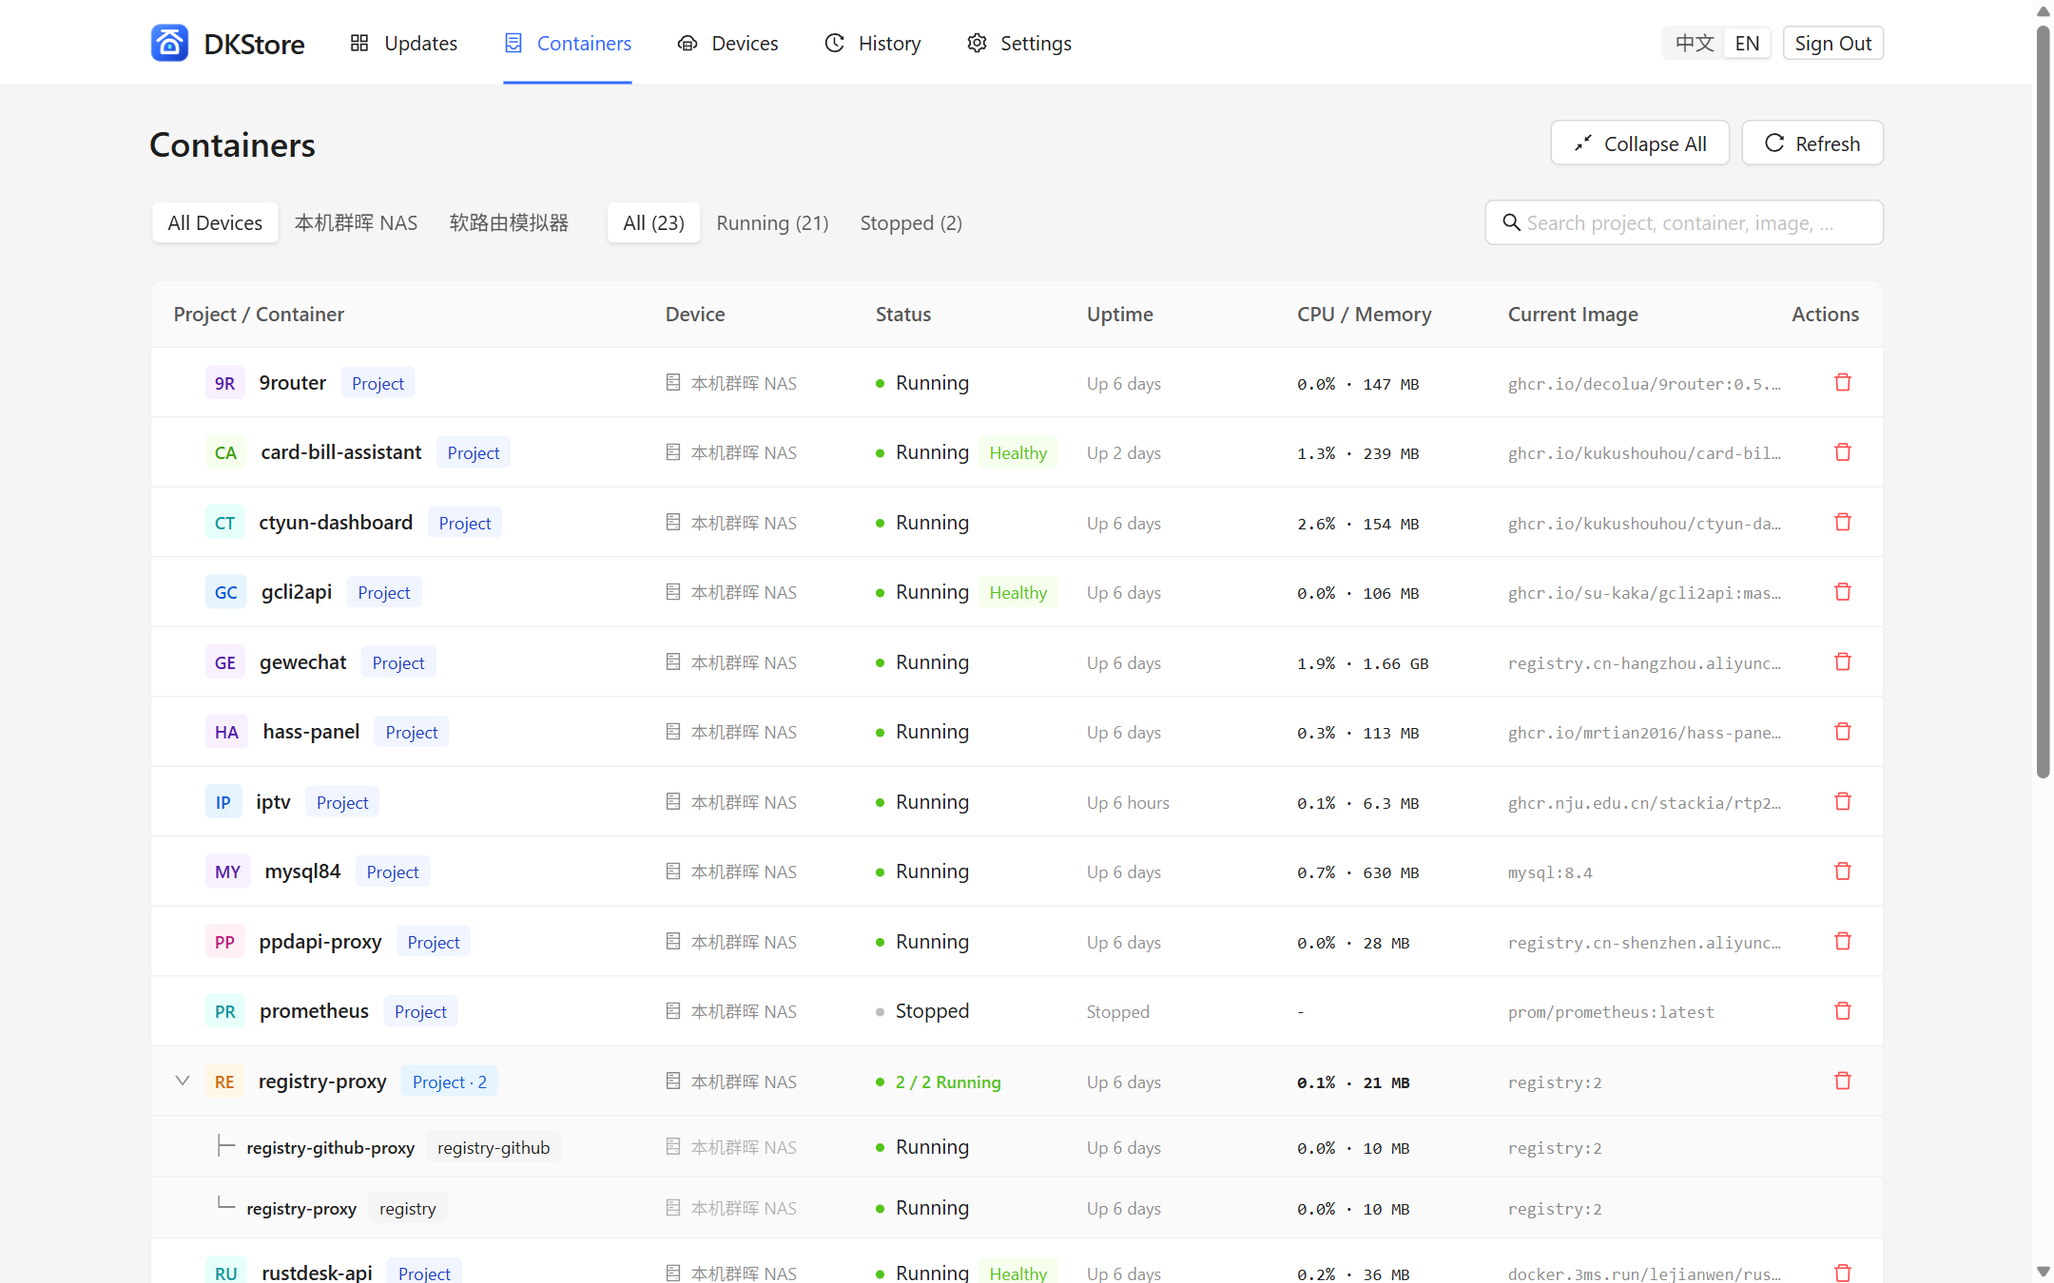
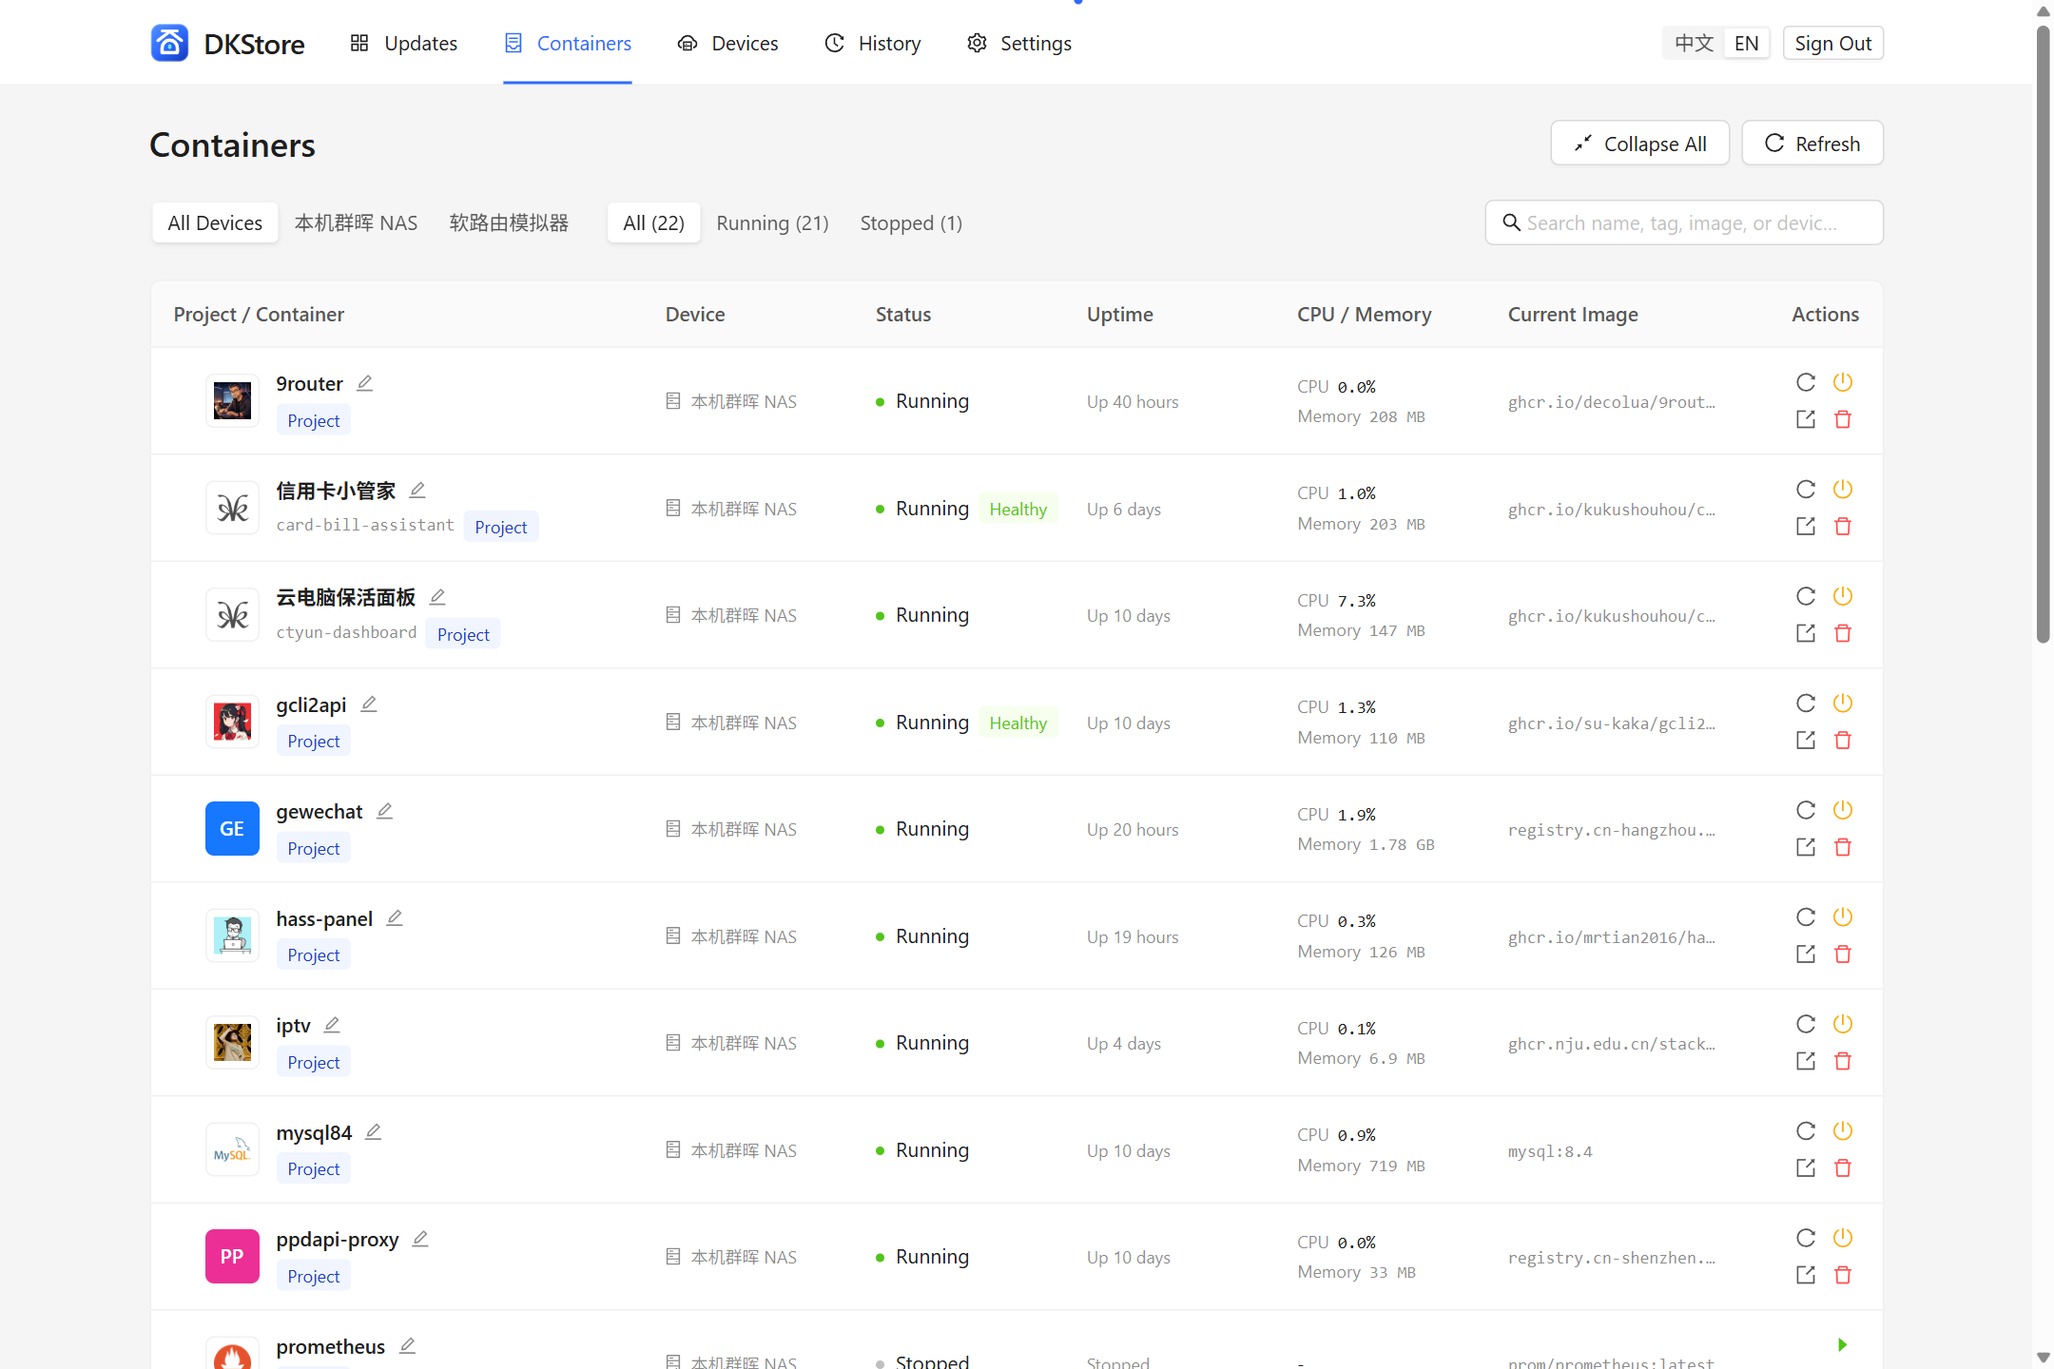
docs: refresh README highlights and bilingual screenshots

diff --git a/README_zh-CN.md b/README_zh-CN.md
@@ -1,4 +1,4 @@
-# DKStore — 家庭 Docker 应用更新中心
+# DKStore — 直观省心的 Docker 应用更新工具
 
 <p>
   <a href="./README.md">English</a> · <strong>简体中文</strong> · <a href="./CHANGELOG.md">更新日志</a> · <a href="https://github.com/kukushouhou/DKStore/releases">下载安装包</a>
@@ -12,50 +12,38 @@
   <img src="https://img.shields.io/badge/Docker-amd64%20%7C%20arm64%20%7C%20armv7-2496ed?style=flat-square" alt="Docker Multi-Arch" />
 </p>
 
-**DKStore** 是专为家庭 NAS、软路由与个人服务器打造的跨平台 Docker 应用更新中心。只需在家中任意一台设备安装一次，即可像手机应用商店一样统一检查、一键安全升级、在线调整配置并在必要时一键回退家里所有设备上的 Docker 应用，同时与群晖 Container Manager、飞牛应用中心等系统原生管理器无感并存。
+**DKStore** 是一款可与群晖、飞牛等系统自带 Docker 管理器**无缝共存**的应用更新工具，提供群晖、飞牛、iStoreOS / OpenWrt 等各平台原生安装包。无需迁移原有容器即可看清 `latest` 真实版本、一键升级与回退，换新版配置时还能**一键恢复自己原有的目录、端口和密码**。
 
 ---
 
 ## 功能亮点
 
-- **应用商店式更新体验，告别盲目升级**
-  - 自动反查 `:latest` 等浮动标签背后的真实版本号（如 `latest (v1.4.1)`），直观对比当前运行版本与最新可用版本。
-  - 智能将待更新应用划分为 **「可更新」** 与 **「需谨慎更新」**（自动识别跨大版本升级、MySQL/PostgreSQL/Redis/MQ 等数据库与中间件组件），并附带官方更新说明与仓库直达链接。
-  - 灵活的提醒范围控制：支持 **锁定大版本前缀**（例如锁住 `0.5.x` 或 `v1.x` 不跨大版本提醒）、**仅跳过当前版本** 或 **不再提醒**。
-- **一处安装，统管全家设备（被管设备免装客户端）**
-  - 支持接入本机 Docker、**群晖 DSM WebAPI 免 SSH 连接**（支持两步验证 OTP 与设备信任令牌持久化）以及 **SSH 远程连接**（支持密码、PEM 私钥、一键生成密钥对及 `sudo` 提权），统一管理多台群晖 NAS、飞牛 fnOS、OpenWrt / iStoreOS 软路由与 Linux 主机。
-  - 自动识别群晖 Container Manager 原生项目、标准 Docker Compose 项目与独立容器；对系统套件托管容器自动设为只读保护，防止误操作破坏系统套件。
-- **单容器安全升级、在线改配置与流式日志**
-  - **不连带重启数据库**：升级多容器项目时仅替换目标容器镜像并独立重建，绝不误重启同项目下的数据库或其他关联服务，同时完整保留原 `docker-compose.yml` 注释与缩进，并自动保留原有的镜像加速源前缀。
-  - **网页端直接按新版配置更新**：当官方新版要求增改环境变量、端口或 YAML 配置时，可直接在更新弹窗内修改当前配置（内置文件夹路径与密码防误覆盖检测、一键恢复原配置，升级失败自动回滚原配置与运行状态）。
-  - **实时进度与终端日志**：实时展示镜像分层下载进度条与只读终端执行日志，多任务队列一目了然。
-- **更新历史记录与安全回退**
-  - 完整留存每次升级与回退前后的版本号、镜像摘要（Digest）及终端日志；回退前自动核验目标版本镜像可用性，确认安全后一键回退到升级前版本。
-- **树状容器监控、残留清理与定时推送**
-  - 树状分组展示各设备的项目与容器运行状态、运行时长、实时 CPU / 内存占用，支持一键移除容器或整个项目（可选一并清理镜像与项目目录）。
-  - 内置定时自动检查、Docker Hub / 私有仓库凭据原位配置，支持通过 **Telegram、Bark、企业微信、ntfy、Webhook** 推送新版本通知，全界面支持**中英双语**实时切换。
+- **各平台原生安装，与 NAS 自带 Docker 管理器无缝共存**  
+  提供群晖 `.spk`、飞牛 `.fpk`、iStoreOS `.run`、OpenWrt `.ipk`/`.apk` 原生安装包（及 Docker / Linux / Windows 版），装好后直接从系统桌面免二次密码打开。**无需迁移或重建现有项目**：群晖 Container Manager、飞牛 Docker 等自带管理器创建的容器可直接原地升级，升完在原管理器中依然正常受管（单更某容器时不连带重启同项目数据库，系统套件容器自动只读保护），同时支持**群晖免开 SSH 直连**与多设备 SSH 集中管理。
+  <p><a href="./assets/screenshots/hosts-zh.png"><img src="./assets/screenshots/hosts-zh.png" width="560" alt="原生安装与多设备管理" /></a></p>
 
----
+- **粘贴新版配置，一键「恢复个性化配置」**  
+  整段粘贴官方新版 `compose.yaml` 或 `docker run` 示例时无需逐行手抄旧配置：上方文本与下方表单实时双向同步，点一下 **「恢复个性化配置」** 即可还原被示例值覆盖的个人目录、端口和密码，同时保留新镜像版本与官方新增项；原配置文件缺失时还能从运行容器自动生成并选择保存目录。
+  <p><a href="./assets/screenshots/config-update-zh.png"><img src="./assets/screenshots/config-update-zh.png" width="560" alt="按配置更新与恢复个性化配置" /></a></p>
 
-## 界面预览
+- **看清真实版本号，自由选版与锁定前缀**  
+  自动查出 `latest` 背后的实际版本（如 `latest (v1.4.1)`），将常规更新与数据库等 **「需谨慎更新」** 分开展示并直达官方更新说明；选版弹窗支持切换 **「预发布」**、按版本号或更新时间排序，以及 **锁定前面的版本号**（如锁住 `2.x` 不跨大版本提醒）。
+  <p>
+    <a href="./assets/screenshots/updates-zh.png"><img src="./assets/screenshots/updates-zh.png" width="405" alt="应用更新首页" /></a>
+    <a href="./assets/screenshots/version-picker-zh.png"><img src="./assets/screenshots/version-picker-zh.png" width="405" alt="版本选择与前缀锁定" /></a>
+  </p>
 
-### 1. 应用更新中心（真实版本号反查与风险分级）
-![应用更新中心](./assets/screenshots/updates-zh.png)
+- **网页一键直达、容器启停与备注标签**  
+  点击应用图标即可直接打开容器网页后台；支持自定义中文备注名、访问网址与分类标签，在首页或容器列表可直接启动、停止、重启容器（更新未运行容器时可自由选择「仅更新不启动」或「更新并启动」）。
+  <p><a href="./assets/screenshots/containers-zh.png"><img src="./assets/screenshots/containers-zh.png" width="560" alt="容器列表与启停管理" /></a></p>
 
-### 2. 指定版本切换与版本号前缀锁定
-![版本选择与前缀锁定](./assets/screenshots/version-picker-zh.png)
+- **清晰报错提示、断流续传与一键回退**  
+  镜像下载遇网络波动自动断点续传；升级出错直接转为清晰原因（如网络超时、空间不足、端口占用）并提供一键 **「重试」**，新配置启动失败自动还原；每次升级留存版本与日志，新版不好用随时一键 **「回退版本」**。
+  <p><a href="./assets/screenshots/history-zh.png"><img src="./assets/screenshots/history-zh.png" width="560" alt="历史记录与版本回退" /></a></p>
 
-### 3. 按新版配置在线修改更新（防覆盖保护与失败自动还原）
-![按新版配置更新](./assets/screenshots/config-update-zh.png)
-
-### 4. 容器运行状态树状监控与清理
-![容器运行状态](./assets/screenshots/containers-zh.png)
-
-### 5. 多设备统一接入与管理
-![设备管理](./assets/screenshots/hosts-zh.png)
-
-### 6. 升级历史记录、执行日志与一键回退
-![历史记录与版本回退](./assets/screenshots/history-zh.png)
+- **新版本消息推送与 DKStore 自更新**  
+  支持定时检查并通过 **企业微信、Bark、Telegram、ntfy、Webhook** 推送更新提醒；DKStore 自身支持自动更新、仅推送提醒或手动在线 / 上传离线包一键升级，全平台保留原有设备配置与历史记录。
+  <p><a href="./assets/screenshots/settings-zh.png"><img src="./assets/screenshots/settings-zh.png" width="560" alt="DKStore 自更新与通知设置" /></a></p>
 
 ---
 
@@ -144,6 +132,6 @@ go run ./cmd/dkstore --listen :8090 --data ./data
 go vet ./... && go test ./...
 
 # 4. 一键打包全平台发行产物至 dist/
-go run ./tools/build_release.go -version v0.2.0
+go run ./tools/build_release.go -version v0.7.0
 ```
 

diff --git a/README.md b/README.md
@@ -1,4 +1,4 @@
-# DKStore — Home Docker App Update Center
+# DKStore — Intuitive, Hassle-Free Docker App Updater
 
 <p>
   <strong>English</strong> · <a href="./README_zh-CN.md">简体中文</a> · <a href="./CHANGELOG.md">Changelog</a> · <a href="https://github.com/kukushouhou/DKStore/releases">Releases</a>
@@ -12,50 +12,38 @@
   <img src="https://img.shields.io/badge/Docker-amd64%20%7C%20arm64%20%7C%20armv7-2496ed?style=flat-square" alt="Docker Multi-Arch" />
 </p>
 
-**DKStore** is an app-store-like Docker update center crafted for home NAS devices, OpenWrt / iStoreOS routers, and personal Linux servers. Install it once on any device in your home network to check updates, safely upgrade individual services, edit configurations in place, and roll back across all your Docker hosts — coexisting seamlessly with native managers like Synology Container Manager and fnOS App Center.
+**DKStore** is a Docker app updater that **coexists seamlessly with native NAS Docker managers** (such as Synology Container Manager and fnOS Docker), with native installer packages for Synology DSM, fnOS, and iStoreOS / OpenWrt. Check real version numbers behind `latest`, upgrade or roll back existing containers in place without migrating stacks, and **restore your own paths, ports, and passwords in one click** when pasting new upstream configs.
 
 ---
 
-## Key Features
+## Key Highlights
 
-- **App-Store Style Update Experience**
-  - Resolves real version numbers behind floating tags like `:latest` (e.g., `latest (v1.4.1)`) so you always know what version is running and what is available.
-  - Automatically separates **Available Updates** from **Caution Updates** (major version jumps and stateful components such as MySQL, PostgreSQL, Redis, and message queues), with direct links to upstream release notes.
-  - Flexible reminder rules: **lock leading version segments** (e.g., stay on `0.5.x` or `v1.x`), **skip a single release**, or **mute reminders**.
-- **Install Once, Manage Every Device (No Client Agents Needed)**
-  - Connects directly via local `docker.sock`, **SSH-free Synology DSM WebAPI** (supporting 2FA OTP and persistent device tokens), or **standard SSH** (password, PEM key, one-click keypair generation, and `sudo` elevation).
-  - Automatically discovers Synology Container Manager projects, Docker Compose stacks, and standalone containers while marking system-managed package containers as read-only so OS packages are never touched.
-- **Safe Single-Service Upgrades, In-Place Config Editing & Live Logs**
-  - **Zero collateral restarts**: Upgrading a service inside a multi-container Compose or DSM project updates only the target service (`--no-deps`), preserving YAML comments/indentation, custom registry mirrors, and sibling database uptime.
-  - **Update with New Config**: Modify Compose YAML or standalone container environment variables and ports directly in the browser when upstream release notes require new settings — complete with folder-path/password overwrite warnings, one-click original config restore, and automatic rollback if startup fails.
-  - **Real-time layer progress & `xterm` logs**: Stream per-layer download progress and live execution logs right in the web UI.
-- **Verified One-Click Rollbacks**
-  - Stores before/after versions, image digests, and full logs for every upgrade. Verifies image tag/digest availability before executing a safe one-click rollback.
-- **Container Resource Tree, Cleanup & Push Notifications**
-  - Hierarchical project/container monitor showing live CPU & memory usage, health status, uptime, device, and image, with one-click container or whole-project removal (optional image & directory cleanup).
-  - Scheduled background checks, inline private registry & Docker Hub credential setup, full **English / Simplified Chinese** UI, and push alerts via **Telegram, Bark, WeCom, ntfy, and Webhooks**.
+- **Native Platform Packages & Seamless NAS Manager Coexistence**  
+  Ships native installers for Synology DSM (`.spk`), fnOS (`.fpk`), iStoreOS (`.run`), and OpenWrt (`.ipk`/`.apk`) alongside Docker, Linux, and Windows builds — install from your system center and launch directly from the desktop without a second login. **No stack migration needed**: containers created in Synology Container Manager, fnOS Docker, or CLI upgrade in place while remaining fully managed in your native UI (single-service upgrades never restart sibling databases, and system package containers stay read-only), with **SSH-free Synology access** and multi-host SSH management built in.
+  <p><a href="./assets/screenshots/hosts-en.png"><img src="./assets/screenshots/hosts-en.png" width="560" alt="Native Install & Multi-Device Management" /></a></p>
 
----
+- **Paste New Configs & Click "Restore Personalized" in One Step**  
+  No more line-by-line copying when upstream releases change `compose.yaml` or `docker run` templates: the top config and bottom visual form stay in live two-way sync, and clicking **"Restore Personalized"** brings back your custom paths, ports, and passwords while keeping the new image version and newly added options. Missing original `compose.yaml` files are reconstructed automatically from running containers with a visual folder picker.
+  <p><a href="./assets/screenshots/config-update-en.png"><img src="./assets/screenshots/config-update-en.png" width="560" alt="Update with Config & Restore Personalized" /></a></p>
 
-## Screenshots
+- **See Real Versions, Pick Tags & Lock Version Prefixes**  
+  Looks up the real version behind `latest` (e.g., `latest (v1.4.1)`), separates routine updates from **Caution Updates** (major jumps and databases) with direct links to release notes, and offers a **Pre-release** toggle, **By Version / By Time** sorting, and **version prefix locking** (e.g., stay on `2.x`).
+  <p>
+    <a href="./assets/screenshots/updates-en.png"><img src="./assets/screenshots/updates-en.png" width="405" alt="App Updates Home" /></a>
+    <a href="./assets/screenshots/version-picker-en.png"><img src="./assets/screenshots/version-picker-en.png" width="405" alt="Version Picker" /></a>
+  </p>
 
-### 1. App Updates Center (Floating Tag Resolution & Risk Grouping)
-![App Updates](./assets/screenshots/updates-en.png)
+- **One-Click Web Access, Start/Stop Controls & Custom Labels**  
+  Click an app icon to open its web UI directly; set custom display names, external URLs, notes, and filterable tags, and start, stop, or restart containers from Home cards or the Containers list (updating a stopped container lets you choose **Update Only** or **Update & Start**).
+  <p><a href="./assets/screenshots/containers-en.png"><img src="./assets/screenshots/containers-en.png" width="560" alt="Containers List" /></a></p>
 
-### 2. Version Picker & Version Prefix Locking
-![Version Picker](./assets/screenshots/version-picker-en.png)
+- **Clear Error Reasons, Auto-Resume & One-Click Rollback**  
+  Resumes interrupted image downloads automatically; translates daemon errors into clear reasons (timeouts, full disk, port conflicts) with a one-click **Retry** button and automatic config restoration on startup failure; saves version history and logs for instant **Roll Back**.
+  <p><a href="./assets/screenshots/history-en.png"><img src="./assets/screenshots/history-en.png" width="560" alt="Update History & Rollback" /></a></p>
 
-### 3. In-Place Configuration Update (with Overwrite Protection)
-![Update with New Config](./assets/screenshots/config-update-en.png)
-
-### 4. Hierarchical Container Resource Monitor
-![Containers Monitor](./assets/screenshots/containers-en.png)
-
-### 5. Multi-Device Management
-![Devices Management](./assets/screenshots/hosts-en.png)
-
-### 6. Upgrade History, Execution Logs & One-Click Rollback
-![Update History](./assets/screenshots/history-en.png)
+- **Push Notifications & DKStore Self-Update**  
+  Supports scheduled checks and push alerts via **Telegram, Bark, WeCom, ntfy, and Webhooks**; DKStore itself supports Auto Update, Notify Only, or one-click online / offline package upgrades across all platforms with all data preserved.
+  <p><a href="./assets/screenshots/settings-en.png"><img src="./assets/screenshots/settings-en.png" width="560" alt="DKStore Self-Update & Settings" /></a></p>
 
 ---
 
@@ -144,6 +132,6 @@ go run ./cmd/dkstore --listen :8090 --data ./data
 go vet ./... && go test ./...
 
 # 4. Build all multi-platform release packages into dist/
-go run ./tools/build_release.go -version v0.2.0
+go run ./tools/build_release.go -version v0.7.0
 ```
 
